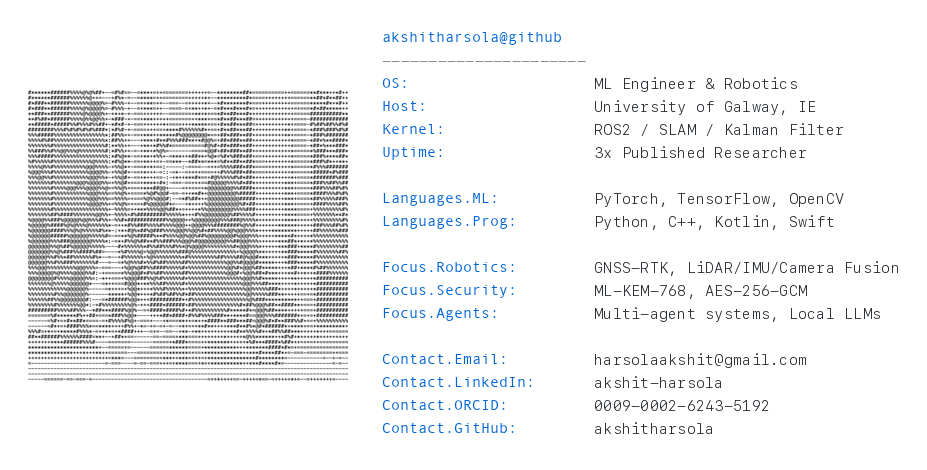
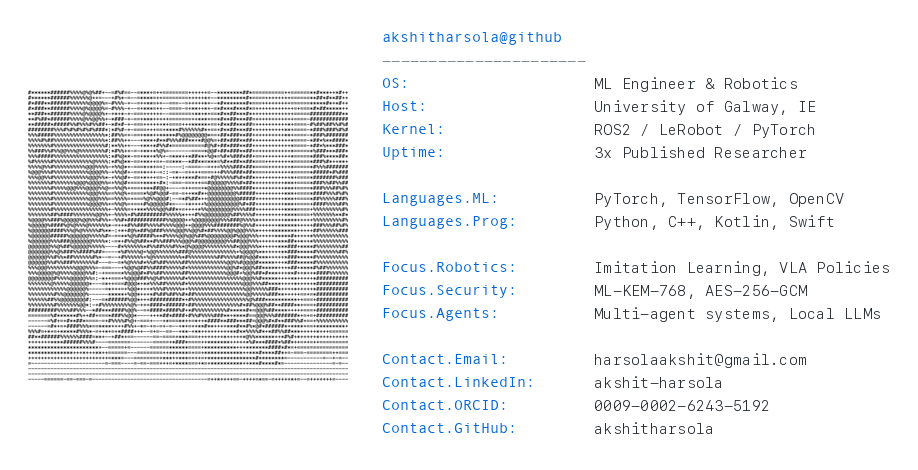
Replace unsupported project claims with the LeRobot major project

diff --git a/scripts/compose_about_me.py b/scripts/compose_about_me.py
@@ -21,13 +21,13 @@ lines_right = [
     ("-" * 22, "rule"),
     ("OS:", "ML Engineer & Robotics"),
     ("Host:", "University of Galway, IE"),
-    ("Kernel:", "ROS2 / SLAM / Kalman Filter"),
+    ("Kernel:", "ROS2 / LeRobot / PyTorch"),
     ("Uptime:", "3x Published Researcher"),
     ("", ""),
     ("Languages.ML:", "PyTorch, TensorFlow, OpenCV"),
     ("Languages.Prog:", "Python, C++, Kotlin, Swift"),
     ("", ""),
-    ("Focus.Robotics:", "GNSS-RTK, LiDAR/IMU/Camera Fusion"),
+    ("Focus.Robotics:", "Imitation Learning, VLA Policies"),
     ("Focus.Security:", "ML-KEM-768, AES-256-GCM"),
     ("Focus.Agents:", "Multi-agent systems, Local LLMs"),
     ("", ""),

diff --git a/README.md b/README.md
@@ -10,7 +10,7 @@
 
 <!-- TYPING ANIMATION -->
 <p align="center">
-  <img src="https://readme-typing-svg.demolab.com?font=Fira+Code&weight=600&size=22&duration=3000&pause=800&color=764ba2&center=true&vCenter=true&width=750&lines=Data+Analyst+%7C+Power+Platform;ML+%26+Robotics;Computer+Vision+%26+Sensor+Fusion;Autonomous+Systems+%7C+ROS2+%7C+SLAM;3x+Published+Researcher" alt="Typing SVG" />
+  <img src="https://readme-typing-svg.demolab.com?font=Fira+Code&weight=600&size=22&duration=3000&pause=800&color=764ba2&center=true&vCenter=true&width=750&lines=Data+Analyst+%7C+Power+Platform;ML+%26+Robotics;Computer+Vision+%26+Imitation+Learning;Robot+Learning+%7C+ROS2+%7C+LeRobot;3x+Published+Researcher" alt="Typing SVG" />
 </p>
 
 <br/>
@@ -114,34 +114,28 @@
 <tr>
 <td width="50%">
 
-### 🦾 Autonomous Agricultural Robotics (In Progress)
+### 🦾 [Learning to Pick: Imitation-Learning Strawberry Harvesting](https://github.com/akshitharsola/learning-to-pick-lerobot-so101)
 > Intelligent Robotics Major Project · University of Galway
 
-- Autonomous strawberry harvesting robot with **multi-sensor fusion** (LiDAR, IMU, camera, GNSS-RTK)
-- 50+ sensor readings/second · **95% localization accuracy**
-- ROS2 + Kalman filtering with RTK-GPS — position drift **< 2cm** over 100m
-- Reduced manual intervention by **70%** in field trials
+- Compared ACT, Diffusion Policy and SmolVLA on a low-cost SO-101 arm
+- Final SmolVLA model: **8/10** pick-and-place trials (pilot-scale result)
+- Async inference; 5-step DDIM raised diffusion control from 0.9 Hz to 13.5 Hz
 
 ![Python](https://img.shields.io/badge/Python-3776AB?logo=python&logoColor=white&style=flat)
-![ROS2](https://img.shields.io/badge/ROS2-22314E?logo=ros&logoColor=white&style=flat)
-![SLAM](https://img.shields.io/badge/SLAM-FF6B35?style=flat)
-![LiDAR](https://img.shields.io/badge/LiDAR-00B4D8?style=flat)
+![PyTorch](https://img.shields.io/badge/PyTorch-EE4C2C?logo=pytorch&logoColor=white&style=flat)
+![Hugging Face](https://img.shields.io/badge/LeRobot-FFD21E?logo=huggingface&logoColor=black&style=flat)
 
 </td>
 <td width="50%">
 
 ### 👁 [AutoVision — Automated Object Annotation](https://github.com/akshitharsola/AutomationIMG)
-> Automated object annotation pipeline — Python · OpenCV · CNN · 60% annotation time reduction
+> Semi-automated image annotation tool — Python · OpenCV · PyQt5 · 60% annotation time reduction
 
 - Reduced annotation time by **60%** (5h → 2h per 100 images)
-- Data augmentation pipeline generating **2,000+ synthetic samples**
-- **15% robustness improvement** across diverse lighting conditions
-- False positives reduced from 18% to 9%
+- Canny edge-based object detection with a PyQt5 GUI and quality assessment
 
 ![Python](https://img.shields.io/badge/Python-3776AB?logo=python&logoColor=white&style=flat)
 ![OpenCV](https://img.shields.io/badge/OpenCV-5C3EE8?logo=opencv&logoColor=white&style=flat)
-![CNN](https://img.shields.io/badge/CNN-FF6B6B?style=flat)
-![PyTorch](https://img.shields.io/badge/PyTorch-EE4C2C?logo=pytorch&logoColor=white&style=flat)
 
 </td>
 </tr>
